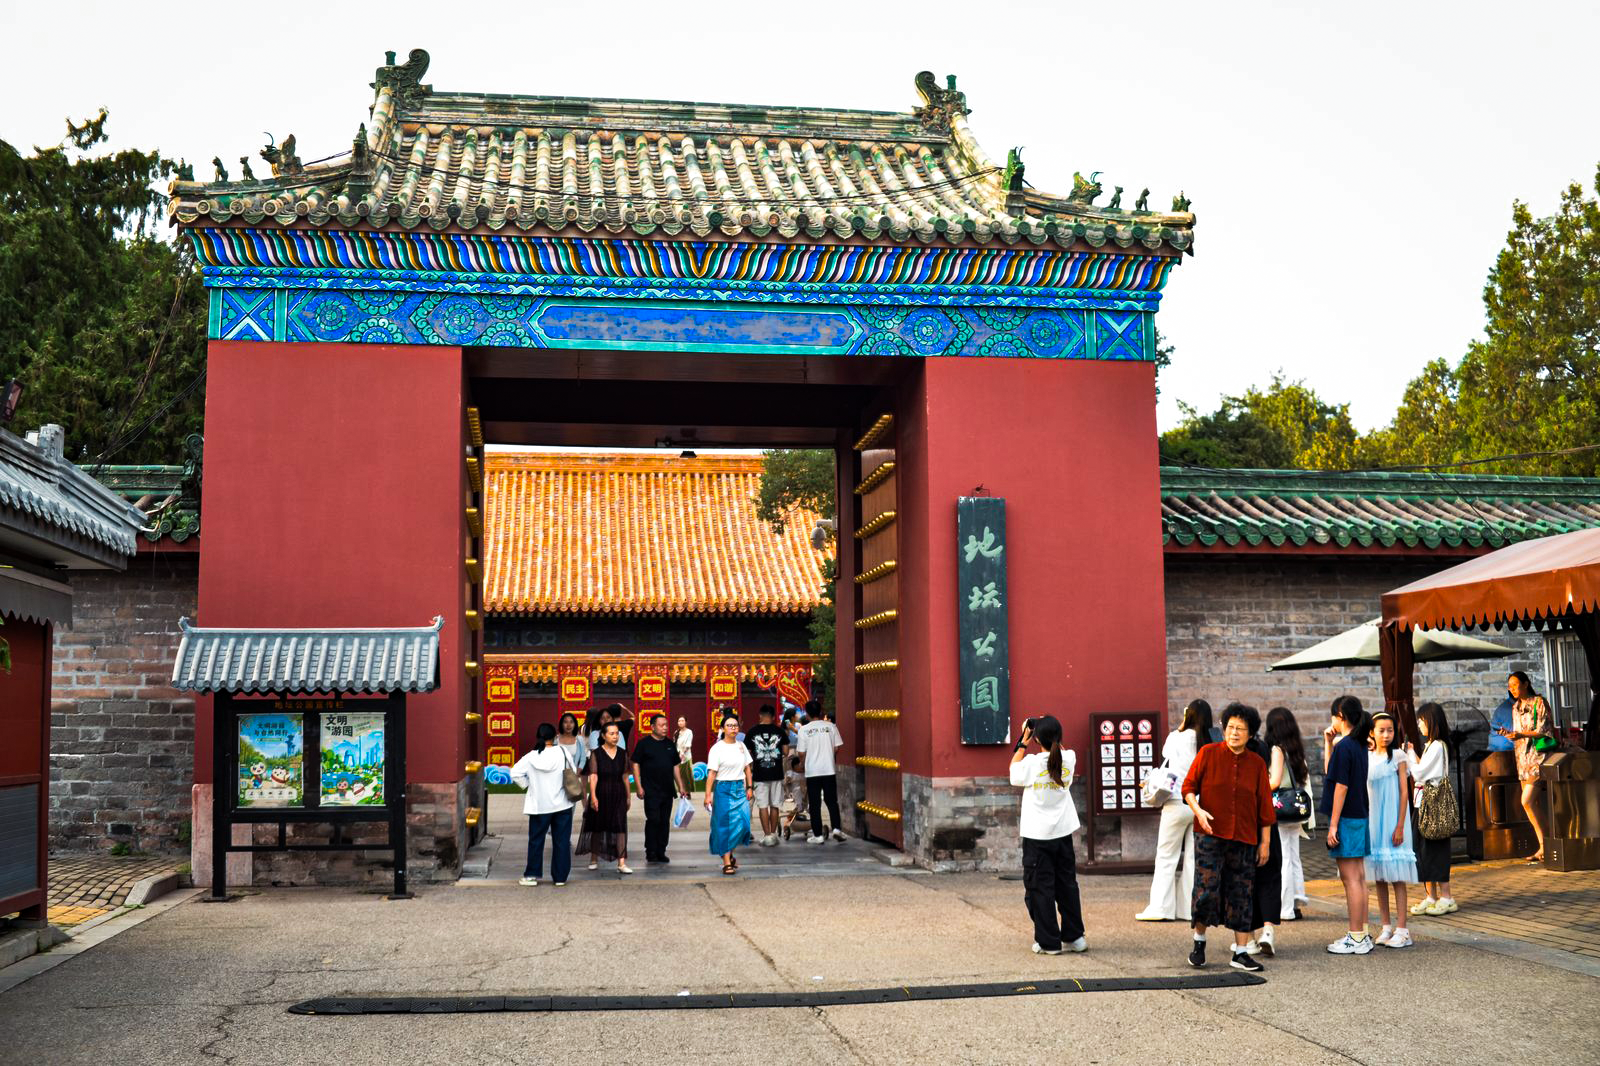
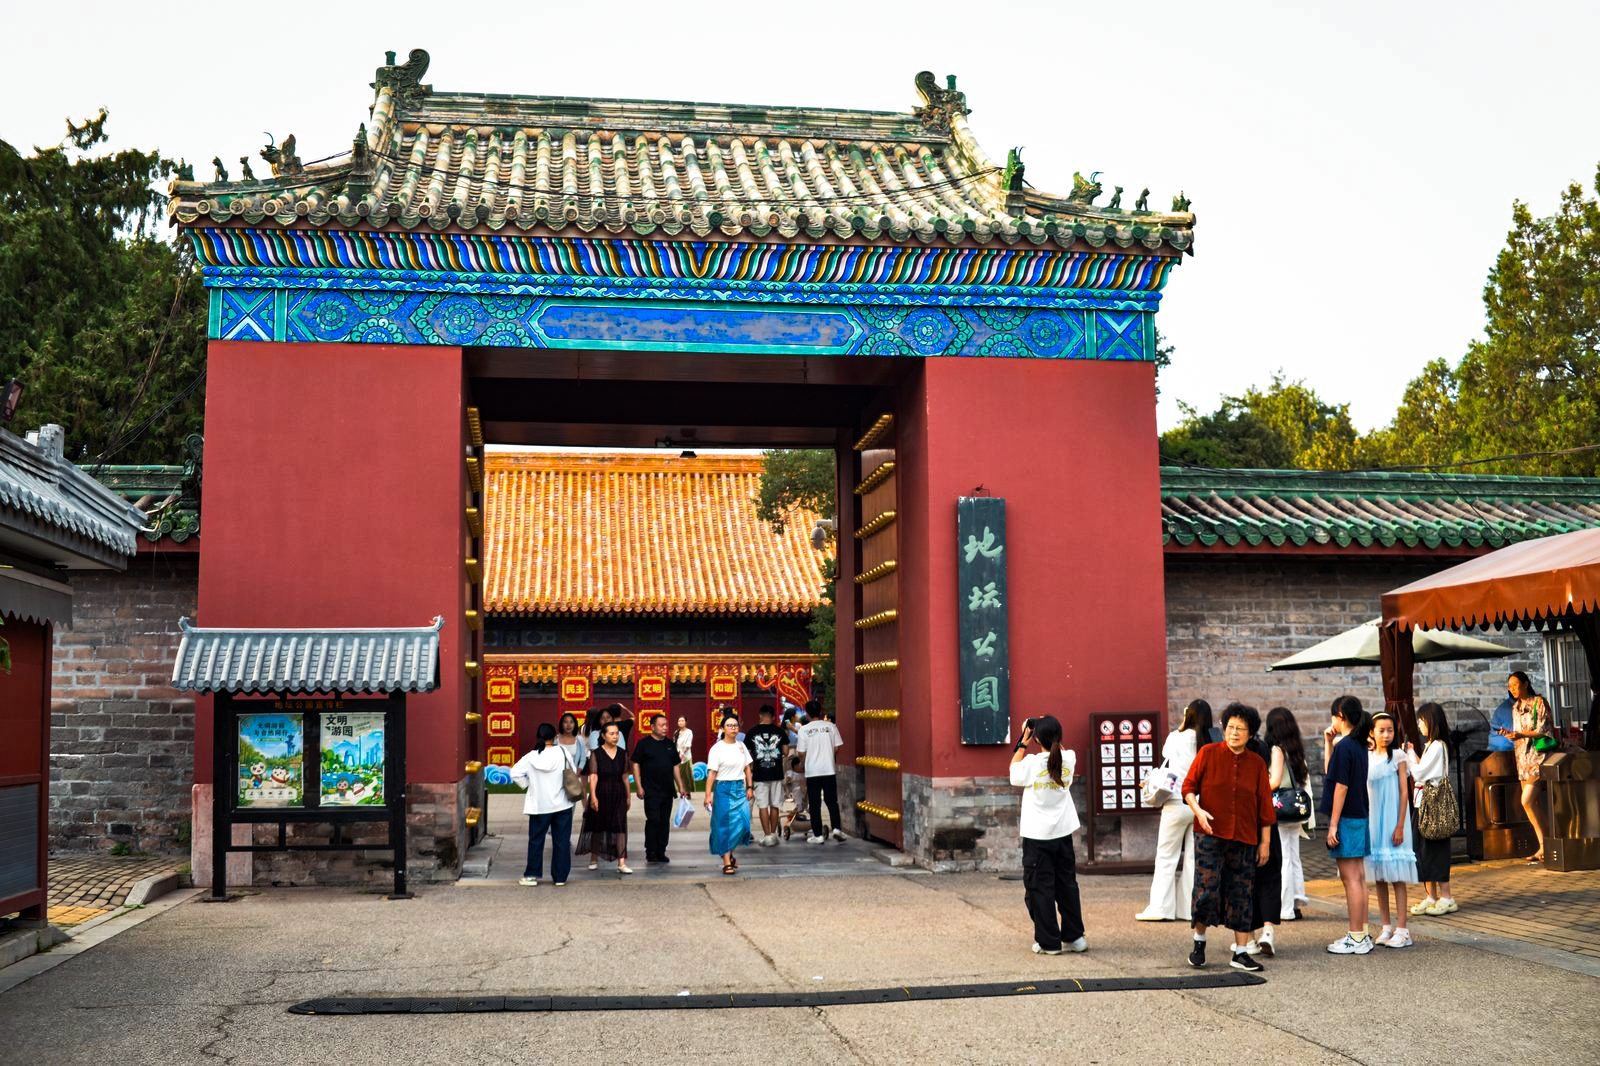
site update

diff --git a/js/main.js b/js/main.js
@@ -230,22 +230,97 @@ function starHTML(group) {
   </svg>`;
 }
 
+/* 相册搜索：既按相册名（城市）过滤，也按相册内的图片名（标题 / 文件名）过滤；
+   命中时跳过分页、一次列全，清空即回到原界面 */
+let photoQuery = "";
+
+/* 文件名的「裸名」：assets/images/zb2/zb201.jpg → zb201（便于按文件名搜） */
+function shotBaseName(src) {
+  return (src || "").split("/").pop().replace(/\.[A-Za-z0-9]+$/, "");
+}
+/* 命中片段标红：先按原始下标切开再各自转义，避免转义后的实体被误伤 */
+function hitHTML(text, q) {
+  const raw = text || "";
+  if (!q) return esc(raw);
+  const i = raw.toLowerCase().indexOf(String(q).toLowerCase());
+  if (i < 0) return esc(raw);
+  return esc(raw.slice(0, i)) + '<b class="hit">' + esc(raw.slice(i, i + q.length)) + "</b>" + esc(raw.slice(i + q.length));
+}
+
+function setSearchHint(nAlbum, nShot, q) {
+  const hint = $("#album-search-hint");
+  const btn = $("#album-search-clear");
+  if (btn) btn.hidden = !q;
+  if (!hint) return;
+  if (!q) { hint.hidden = true; hint.innerHTML = ""; return; }
+  hint.hidden = false;
+  const n = nAlbum + nShot;
+  if (!n) {
+    hint.innerHTML = `没有名字含「${esc(photoQuery.trim())}」的相册或照片`;
+    return;
+  }
+  const parts = [];
+  if (nAlbum) parts.push(`<b>${nAlbum}</b> 个相册`);
+  if (nShot) parts.push(`<b>${nShot}</b> 张照片`);
+  hint.innerHTML = `找到 ${parts.join("、")}`;
+}
+
+function initAlbumSearch() {
+  const form = $("#album-search"), input = $("#album-search-input"), btn = $("#album-search-clear");
+  if (!input) return;
+  const apply = () => {
+    photoQuery = input.value || "";
+    renderPhotos();
+    initReveal();
+  };
+  input.addEventListener("input", apply);                 // 边打边筛，相册数量少不必节流
+  if (form) form.addEventListener("submit", (e) => e.preventDefault());
+  if (btn) btn.addEventListener("click", () => {
+    input.value = "";
+    apply();
+    input.focus();
+  });
+}
+
 function renderPhotos() {
   const groups = SITE_DATA.photos || [];
   const box = $("#photo-grid");
+  const q = photoQuery.trim().toLowerCase();
   if (!groups.length) {
     box.innerHTML = emptyTip("还没有照片 · 把照片放进 assets/images，并在 js/data.js 登记");
+    setSearchHint(0, 0, q);
     return;
   }
-  // 按图集（城市）数量分页，每页显示 PAGE_SIZE.photos 本图集
-  const size = PAGE_SIZE.photos;
-  const total = Math.ceil(groups.length / size);
-  pageState.photos = Math.min(Math.max(1, pageState.photos), total);
-  const start = (pageState.photos - 1) * size;
-  const slice = groups.map((g, gi) => ({ g, gi })).slice(start, start + size);
+
+  let slice, pager = "", shots = [];
+  if (q) {
+    // 搜索：相册名命中 → 相册卡片；照片标题或文件名命中 → 照片卡片。两者都一次列全
+    slice = [];
+    groups.forEach((g, gi) => {
+      if ((g.city || "").toLowerCase().includes(q)) slice.push({ g, gi });
+      (g.photos || []).forEach((p, pi) => {
+        const name = (p.title || "") + " " + shotBaseName(p.src);
+        if (name.toLowerCase().includes(q)) shots.push({ g, gi, p, pi });
+      });
+    });
+    setSearchHint(slice.length, shots.length, q);
+    if (!slice.length && !shots.length) {
+      box.innerHTML = emptyTip("换个关键词试试 · 目前共有 " + groups.length + " 个相册");
+      return;
+    }
+  } else {
+    const pool = groups.map((g, gi) => ({ g, gi }));
+    setSearchHint(0, 0, q);
+    const size = PAGE_SIZE.photos;
+    const total = Math.ceil(pool.length / size);
+    pageState.photos = Math.min(Math.max(1, pageState.photos), total);
+    const start = (pageState.photos - 1) * size;
+    slice = pool.slice(start, start + size);
+    pager = paginationHTML("photos", total);
+  }
 
   // 每个城市一张封面卡片（用第一张照片做封面）
-  box.innerHTML = slice.map(({ g, gi }) => {
+  const albumHTML = slice.map(({ g, gi }) => {
     const cover = g.photos[0];
     if (!cover) return "";
     return `
@@ -256,12 +331,31 @@ function renderPhotos() {
           ${sealHTML(g)}
           <span class="album-count">${g.photos.length} 张</span>
           <figcaption class="photo-meta">
-            <span class="photo-title">${esc(g.city)}</span>
+            <span class="photo-title">${hitHTML(g.city, q)}</span>
             <span class="photo-place">共 ${g.photos.length} 张</span>
           </figcaption>
         </figure>
       </div>`;
-  }).join("") + paginationHTML("photos", total);
+  }).join("");
+
+  // 命中的单张照片：左上角标城市，右下角标照片名，点开直接放大（可在该图集内前后翻）
+  const shotHTML = shots.map(({ g, gi, p, pi }) => {
+    const label = p.title || shotBaseName(p.src);
+    return `
+      <div class="photo-wrap reveal">
+        <figure class="photo-card photo-shot" data-gi="${gi}" data-pi="${pi}" tabindex="0" role="button" aria-label="查看 ${esc(label)}（${esc(g.city)}）">
+          <img src="${esc(p.src)}" alt="${esc(label)}" loading="lazy">
+          ${sealHTML(g)}
+          <span class="album-count">${hitHTML(g.city, q)}</span>
+          <figcaption class="photo-meta">
+            <span class="photo-title">${hitHTML(label, q)}</span>
+            <span class="photo-place">${esc(g.city)}</span>
+          </figcaption>
+        </figure>
+      </div>`;
+  }).join("");
+
+  box.innerHTML = albumHTML + shotHTML + pager;
 
   box.querySelectorAll("img").forEach((img, i) =>
     bindImgFallback(img, `assets/images/travel-${(i % 6) + 1}.svg`));
@@ -270,6 +364,20 @@ function renderPhotos() {
     el.addEventListener("click", () => openAlbum(+el.dataset.gi));
     el.addEventListener("keydown", (e) => {
       if (e.key === "Enter" || e.key === " ") { e.preventDefault(); openAlbum(+el.dataset.gi); }
+    });
+  });
+  // 搜索结果的单张照片：点开直接进灯箱，且前后翻的是它所在图集的全部照片
+  box.querySelectorAll(".photo-shot").forEach((el) => {
+    const jump = () => {
+      const g = SITE_DATA.photos[+el.dataset.gi];
+      if (!g) return;
+      albumPhotos = g.photos || [];
+      albumCity = g.city || "";
+      openLightbox(+el.dataset.pi);
+    };
+    el.addEventListener("click", jump);
+    el.addEventListener("keydown", (e) => {
+      if (e.key === "Enter" || e.key === " ") { e.preventDefault(); jump(); }
     });
   });
   bindPagination(box, "photos");
@@ -926,6 +1034,7 @@ renderPhotos();
 renderSocial();
 renderHobbies();
 renderContact();
+initAlbumSearch();
 initReveal();
 addSectionClouds();
 onScroll();

diff --git a/css/style.css b/css/style.css
@@ -547,6 +547,55 @@ section, .hero { scroll-margin-top: calc(var(--nav-h) - 6px); }
 .travel-more::after { content: " →"; transition: margin .3s; }
 .travel-item:hover .travel-more::after { margin-left: 6px; }
 
+/* — 相册搜索（纸色输入框，不用纯白） — */
+.album-search {
+  position: relative; display: flex; align-items: center;
+  /* 上移一点：拉远与相册卡的距离，让搜索框归到标签栏那一层 */
+  max-width: 420px; margin: -16px auto 32px;
+  padding: 0 12px;
+  background: var(--paper-2);
+  border: 1px solid var(--line);
+  border-radius: 3px;
+  transition: border-color .3s, box-shadow .3s, background .3s;
+}
+.album-search:focus-within {
+  background: var(--card);
+  border-color: var(--cinnabar);
+  box-shadow: 0 6px 18px rgba(70, 58, 32, 0.12);
+}
+.album-search-icon {
+  flex: none; width: 16px; height: 16px; margin-right: 9px;
+  fill: none; stroke: var(--ink-3); stroke-width: 1.8; stroke-linecap: round;
+  transition: stroke .3s;
+}
+.album-search:focus-within .album-search-icon { stroke: var(--cinnabar); }
+.album-search-input {
+  flex: 1; min-width: 0; padding: 11px 0;
+  border: none; outline: none; background: transparent;
+  font-family: var(--font-kai); font-size: 16px; letter-spacing: 0.12em;
+  color: var(--ink);
+}
+.album-search-input::placeholder { color: var(--ink-3); letter-spacing: 0.08em; }
+.album-search-clear {
+  flex: none; width: 22px; height: 22px; margin-left: 6px;
+  border: none; border-radius: 50%; cursor: pointer;
+  background: var(--paper-3); color: var(--ink-2);
+  font-size: 15px; line-height: 1;
+  display: flex; align-items: center; justify-content: center;
+  transition: background .25s, color .25s;
+}
+.album-search-clear:hover { background: var(--cinnabar); color: var(--paper); }
+.album-search-hint {
+  /* 紧贴搜索框下方（抵消搜索框那 32px 下边距），再留出到相册的距离 */
+  max-width: 420px; margin: -18px auto 26px;
+  text-align: center;
+  font-family: var(--font-kai); font-size: 14px; letter-spacing: 0.14em;
+  color: var(--ink-3);
+}
+.album-search-hint b { color: var(--cinnabar); font-weight: normal; }
+/* 搜索命中的片段（相册名 / 照片名里命中的那几个字） */
+.hit { color: var(--cinnabar); font-weight: normal; }
+
 /* — 照片集 — */
 .photo-grid {
   display: grid; grid-template-columns: repeat(3, 1fr);

diff --git a/index.html b/index.html
@@ -5,9 +5,9 @@
   <meta name="viewport" content="width=device-width, initial-scale=1.0">
   <meta name="description" content="个人网站 · 新中式风格 · 简介与行迹">
   <title>洛晴跃飞</title>
-  <link rel="icon" type="image/svg+xml" href="favicon.svg?v=20260918a">
+  <link rel="icon" type="image/svg+xml" href="favicon.svg?v=20260920c">
   <!-- ?v= 是版本号：改了 style.css 却没生效时，把数字加一即可绕过浏览器缓存 -->
-  <link rel="stylesheet" href="css/style.css?v=20260918m">
+  <link rel="stylesheet" href="css/style.css?v=20260920c">
 </head>
 <body>
 
@@ -103,6 +103,17 @@
 
         <!-- 照片集 -->
         <div class="tab-panel active" id="panel-photos">
+          <form class="album-search" id="album-search" role="search">
+            <svg class="album-search-icon" viewBox="0 0 24 24" aria-hidden="true">
+              <circle cx="10.5" cy="10.5" r="6.5"></circle>
+              <line x1="15.5" y1="15.5" x2="21" y2="21"></line>
+            </svg>
+            <input class="album-search-input" id="album-search-input" type="text"
+                   placeholder="搜索相册名或照片名，如 北京" aria-label="搜索相册或照片" autocomplete="off">
+            <button class="album-search-clear" id="album-search-clear" type="button"
+                    aria-label="清空搜索" hidden>&times;</button>
+          </form>
+          <p class="album-search-hint" id="album-search-hint" hidden></p>
           <div class="photo-grid" id="photo-grid"><!-- JS 渲染 --></div>
         </div>
 
@@ -206,8 +217,8 @@
     <article class="city-map-paper" id="city-map-body"><!-- JS 渲染 --></article>
   </div>
 
-  <script src="js/data.js?v=20260918n"></script>
-  <script src="js/china-map.js?v=20260918m"></script>
-  <script src="js/main.js?v=20260918m"></script>
+  <script src="js/data.js?v=20260920c"></script>
+  <script src="js/china-map.js?v=20260920c"></script>
+  <script src="js/main.js?v=20260920c"></script>
 </body>
 </html>

diff --git a/js/data.js b/js/data.js
@@ -182,7 +182,10 @@ const SITE_DATA = {
         { src: "assets/images/bj2/bj237.jpg", title: "北海之夏 其六" },
         { src: "assets/images/bj2/bj238.jpg", title: "北海之夏 其七" },
         { src: "assets/images/bj2/bj239.jpg", title: "北海之夏 其八" },
-        { src: "assets/images/bj2/bj236.jpg", title: "太庙一隅" }
+        { src: "assets/images/bj2/bj236.jpg", title: "太庙一隅" },
+        { src: "assets/images/bj2/tiananmen/天安门.jpg", title: "天安门" },
+        { src: "assets/images/bj2/tiananmen/天安门 其二.jpg", title: "天安门 其二" },
+        { src: "assets/images/bj2/tiananmen/天安门 其三.jpg", title: "天安门 其三" }
       ]
     },
     {

diff --git a/.workbuddy/memory/2026-09-20.md b/.workbuddy/memory/2026-09-20.md
@@ -1,0 +1,13 @@
+# 2026-09-20 工作记录
+
+## 照片集搜索框（行迹 · 照片集）
+- 新增 `.album-search` 纸色搜索框（`index.html` 的 `#panel-photos` 内，位于 `.photo-grid` 之上），配色沿用 `--paper-2` / `--line`，聚焦转朱红，非纯白。
+- `js/main.js`：`photoQuery` + `initAlbumSearch()` + `setSearchHint()`；`renderPhotos()` 搜索时跳过分页一次列全，清空恢复分页。
+- 搜索框间距：`.tabs` 自带 48px 下边距，搜索框默认 0 上边距会显得紧贴相册 → 用 `margin: -16px auto 32px` 把它上提并拉开与相册的距离；`.album-search-hint` 用 `margin: -18px auto 26px` 抵消，保证提示紧贴框下方。
+
+## 搜索扩展到照片名（本次）
+- 命中分两类：相册名（`g.city`）→ 相册卡片；照片名 → 单张照片卡片（`.photo-shot`，带 `data-gi` / `data-pi`）。
+- 照片名匹配 = `p.title` + 文件名裸名 `shotBaseName(p.src)`（`assets/images/zb2/zb201.jpg` → `zb201`），所以标题没写也能按文件名搜到。
+- 点照片结果直接进灯箱（`albumPhotos = g.photos` 后 `openLightbox(pi)`），左右键在该图集内前后翻；点相册卡片仍是先弹缩略图选择器。
+- `hitHTML()` 把命中片段包成 `<b class="hit">`（朱红）。坑：`raw.toLowerCase().indexOf(q)` 在 q 含大写时永远 -1，必须 `indexOf(q.toLowerCase())`。
+- 测试办法：正则从 main.js 抽出纯函数 `shotBaseName` / `hitHTML` 在 Node 里 eval 后断言（14 项全通过）。agent-browser 在本机会卡死（7 分钟无输出），不要再依赖它做验证。

diff --git a/使用说明.md b/使用说明.md
@@ -360,6 +360,17 @@ const PAGE_SIZE = { travel: 3, photos: 9 };
 
 `travel` 是随笔每页篇数，`photos` 是图集每页本数，改数字保存即可（图集建议用 3 的倍数，网格才整齐）。
 
+**Q：照片集上面的搜索框能搜什么？**
+
+相册名和照片名都行，边打边筛：
+
+- 输「北京」→ 名字含北京的**相册**；
+- 输「八大局」→ 标题含这几个字的**单张照片**；
+- 输「zb201」→ 按**文件名**也能命中（不用管路径和 .jpg）；
+- 命中的字会标成朱红；结果**不分页、一次全列**；把框里清空就回到原来的分页界面。
+
+点相册卡片照旧是先弹缩略图选择器；点搜出来的单张照片则**直接放大**，左右键在这个图集里前后翻。
+
 ---
 
 ## 文件结构一览
